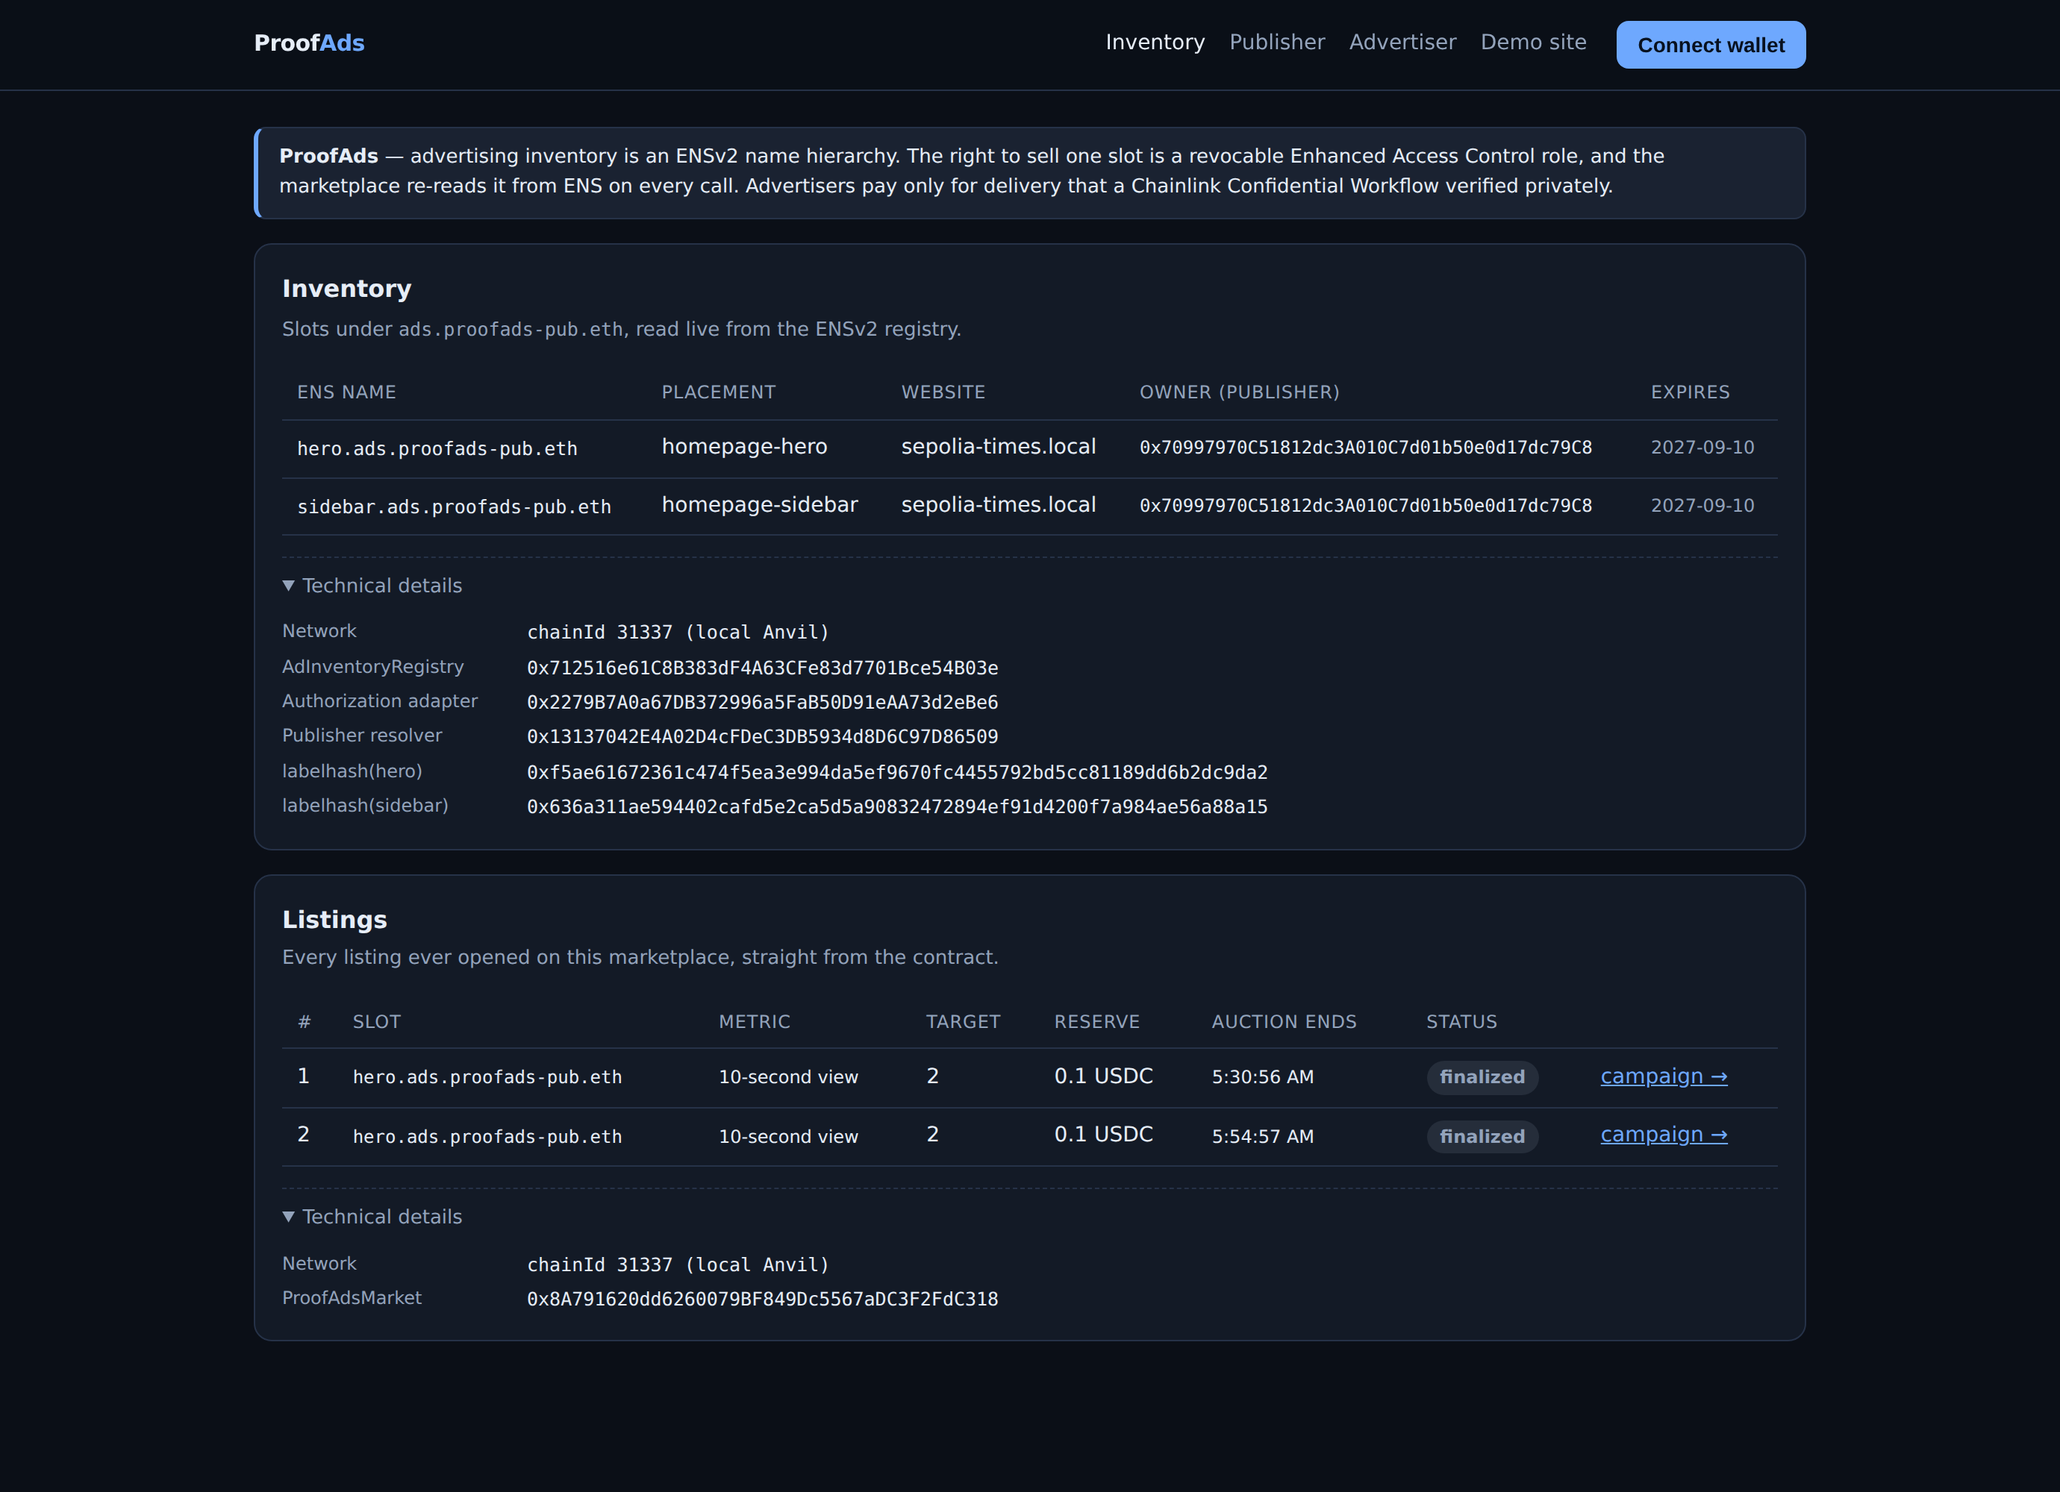
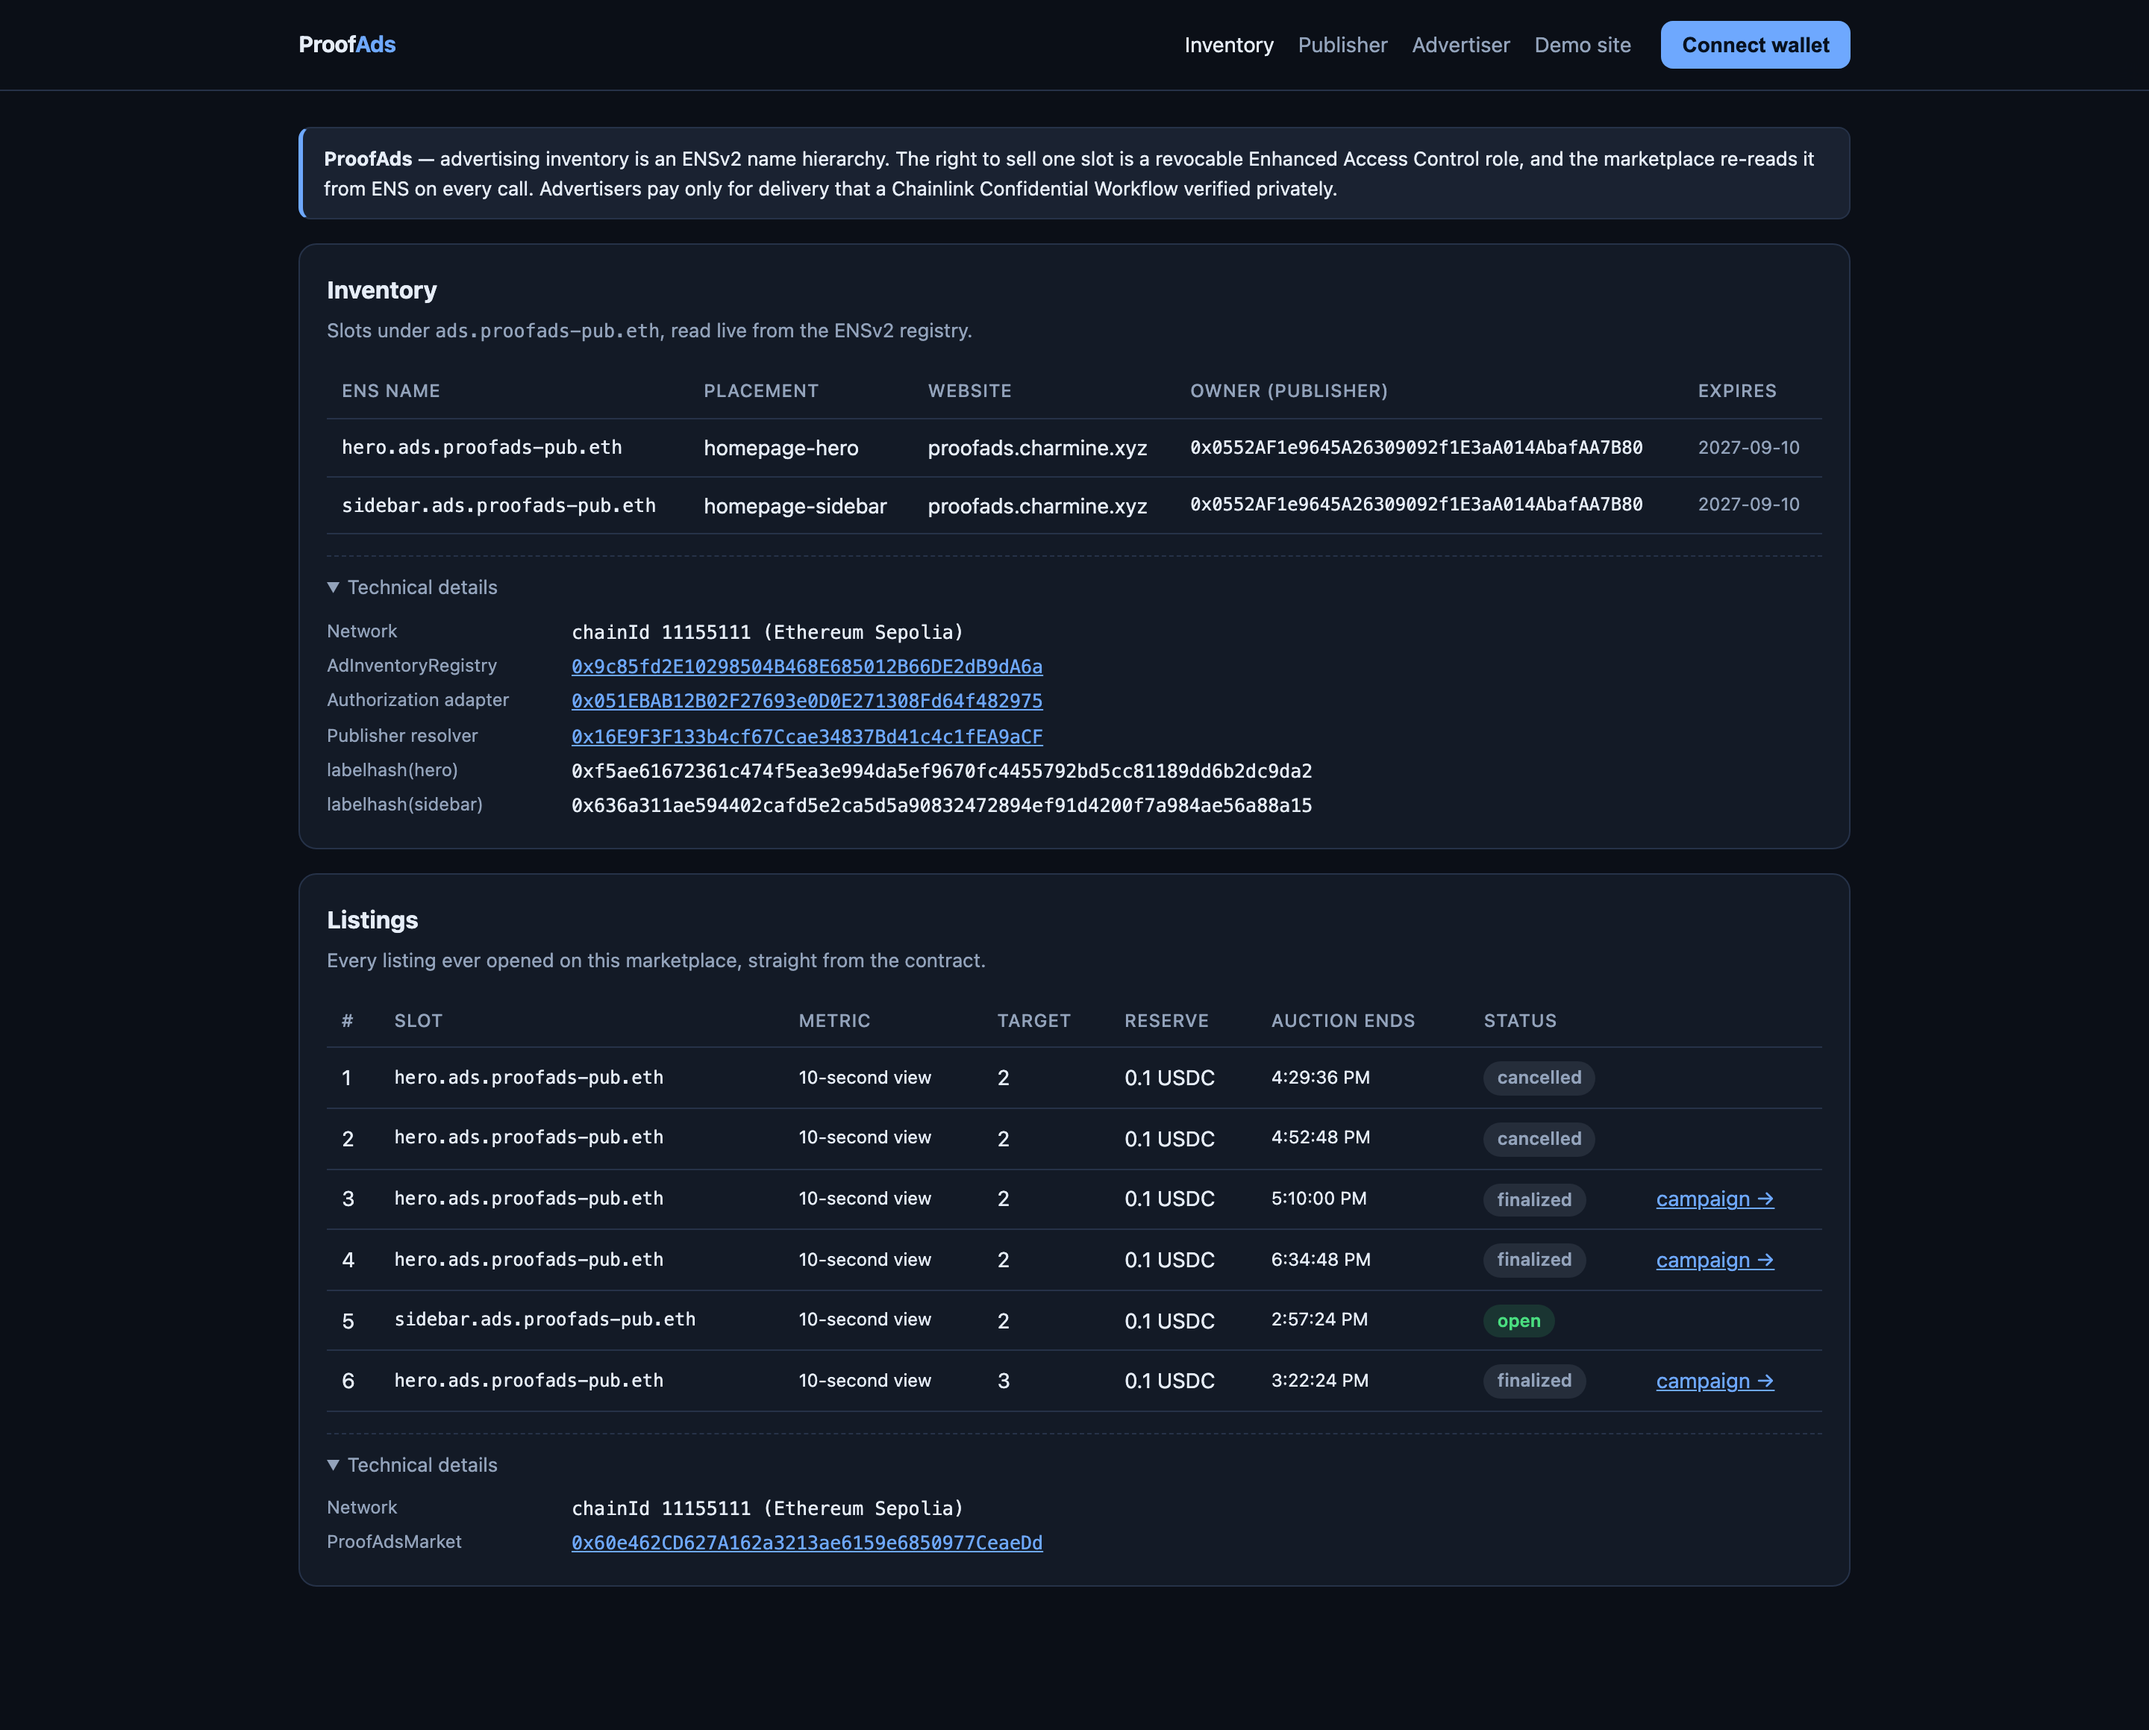
docs: submission evidence from the live Sepolia deployment
Replaces the UI screenshots, which were captured against local Anvil and
showed "chainId 31337" — a quiet contradiction of a submission claiming a
public deployment. The new set is from proofads.charmine.xyz on Sepolia,
with every "Technical details" panel expanded.

Adds the two captures that prove the Chainlink half independently of our
own UI: the CRE simulate run with the AWS Nitro banner, and the settlement
transaction's four event logs on Etherscan. DEPLOYMENTS.md records campaign
3 and reads those logs — the batchDigest repeats across
SettlementReportReceived and DeliveryApplied, which is ADR-016's replay
protection visible on chain, and ReportProcessed(result: true) is the field
that read false in the gas-starved attempt behind ADR-017.

Also: capture-evidence.mjs, which re-takes the screenshots and refuses to
run unless the app reports chainId 11155111; the cover image and three icon
options; config.staging.json pointed at the public collector; and the CRE
build artifact gitignored.

Claude-Session: https://claude.ai/code/session_01Qz8x778sWLx22byDCHKkGj

diff --git a/docs/DEPLOYMENTS.md b/docs/DEPLOYMENTS.md
@@ -63,7 +63,42 @@ names from the compiled ABI, so it cannot drift from the contracts.
[4 lines of base64/hex data omitted]
 | `createListing` / `placeBid` / `finalizeAuction` / `DeliveryApplied` / `CampaignClosed` | *(harvest with the script above)* |
+
+**Campaign 3 — the state the submission screenshots show.** Listed by the delegated agency
+`0x5cAE3014bE16BB9EE74127D36b9cF1683Ec25207` on `hero`, bid by advertiser
+`0x92F34E0E0ad9982E6915CC3cD650c7E14e88a446`, creative served from the public deployment at
+`https://proofads.charmine.xyz/creatives/adv-a.png`, and settled through the **public** collector
+rather than a local one:
+
+| | |
+|---|---|
+| Enclave output | `batchEvents=36 newUnits=2 alreadySettled=0 cumulative=2 rejected[NOT_A_QUALIFYING_EVENT=34]` |
+| Verified delivery | 2 of 3 units |
+| Released to publisher | 0.22 USDC |
+| Still escrowed | 0.11 USDC |
[1 lines of base64/hex data omitted]
+
+The agency sold the slot; the publisher `0x0552AF1e9645A26309092f1E3aA014AbafAA7B80` was paid.
+
+The four logs of that transaction, kept in `evidence/etherscan-settlement-campaign3.png`, are the
+whole settlement path in one receipt:
+
+| # | Contract | Event |
+|---|---|---|
+| 148 | `ProofAdsSettlementReceiver` | `SettlementReportReceived(campaignId 3, cumulativeVerifiedUnits 2, batchDigest 0x403DDCB2…, window 1789127700→1789128024)` |
+| 149 | Circle USDC | `Transfer(market → publisher, 220000)` |
+| 150 | `ProofAdsMarket` | `DeliveryApplied(3, reported 2, effective 2, payoutDelta 220000, batchDigest 0x403DDCB2…)` |
+| 151 | Chainlink `KeystoneForwarder` | `ReportProcessed(receiver, workflowExecutionId, reportId 0x0001, result: true)` |
+
+Two details are worth pointing at. The identical `batchDigest` in logs 148 and 150 is the replay
+protection of ADR-016 visible on chain — the same digest arriving again is a no-op, not a second
+payment. And `result: true` in log 151 is precisely the field that read `false` in the
+gas-starved attempt below; the Forwarder reports receiver failure there and nowhere else, which
+is why ADR-017 exists.
+
+Terminal output for the same run is in `evidence/cre-simulate-campaign3.png`.
 
 **The settlement that worked.** `0x320ea411…36e29b`, the same batch and the same report as the
 failed attempt, re-run after ADR-017 raised the gas limit. One unit of verified attention:
